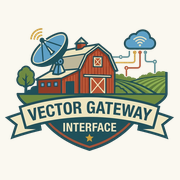
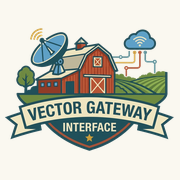
brand: reroll every asset from the new transparent master
The new master is exported with its own alpha rather than as the mark on
white. The keying path would have destroyed it: `convert("RGB")` drops the
alpha and leaves whatever RGB sits under the transparent pixels, which is as
likely to be black as white, so the white-floor test keys nothing and the
result is the mark on a black slab. `key_out_background` now detects a
master that actually uses its alpha and passes it through on its own
channel, cropped but otherwise untouched — round-tripping through white
would re-blend every antialiased edge against a background it was never
drawn on.

Also commit the master itself. The module docstring has always claimed it is
committed, but `.gitignore`'s `*.png` caught it and the derived assets were
force-added one by one, so the pipeline could not actually be re-run from a
fresh clone.

Every derived size rerolled from it: logo-shield (1177x857), logo-hero
(600w, the URL the HTML pages point at), logo (512w), apple-touch-icon
(180, cream), favicons (16/32/48), and the social card's logo block with
its text left alone. ~14% of hero pixels differ from the old mark.

diff --git a/scripts/regenerate_logo_assets.py b/scripts/regenerate_logo_assets.py
@@ -112,16 +112,47 @@ def _dilate(mask: np.ndarray, radius: int) -> np.ndarray:
     return out
 
 
+def _already_transparent(master: Image.Image) -> bool:
+    """True when *master* carries its own alpha channel and actually uses it.
+
+    A master exported straight to transparency needs no keying, and keying it
+    anyway would be destructive: ``convert("RGB")`` drops the alpha and leaves
+    whatever RGB sits under the transparent pixels, which is as likely to be
+    black as white — the white-floor test then keys nothing and the result is
+    the mark on a black slab.
+
+    "Uses it" is deliberately a threshold rather than "has an A band": a fully
+    opaque RGBA export is the white-background case wearing an alpha channel,
+    and belongs on the keying path.
+    """
+    if master.mode not in ("RGBA", "LA", "PA"):
+        return False
+    alpha = np.asarray(master.convert("RGBA"))[..., 3]
+    return bool((alpha < 250).mean() > 0.01)
+
+
 def key_out_background(master: Image.Image) -> Image.Image:
     """Replace the master's white background with transparency.
 
+    A master that is already transparent is passed through on its own alpha —
+    cropped to the mark, but otherwise untouched. Round-tripping it through
+    white would re-blend every antialiased edge against a background it was
+    never drawn on.
+
     Args:
-        master: The logo on a white background, in any mode.
+        master: The logo on a white background, or one already transparent.
 
     Returns:
         An RGBA image cropped to the mark's bounding box.
 
     """
+    if _already_transparent(master):
+        image = master.convert("RGBA")
+        opaque = int((np.asarray(image)[..., 3] > 0).sum())
+        print(f"master is already transparent: {opaque:,} px of mark, no keying applied")
+        bbox = image.getbbox()
+        return image.crop(bbox) if bbox else image
+
     rgb = np.asarray(master.convert("RGB")).astype(np.float64)
     background = rgb.min(axis=2) >= _WHITE_FLOOR
     edge = _dilate(background, _EDGE_BAND) & ~background
